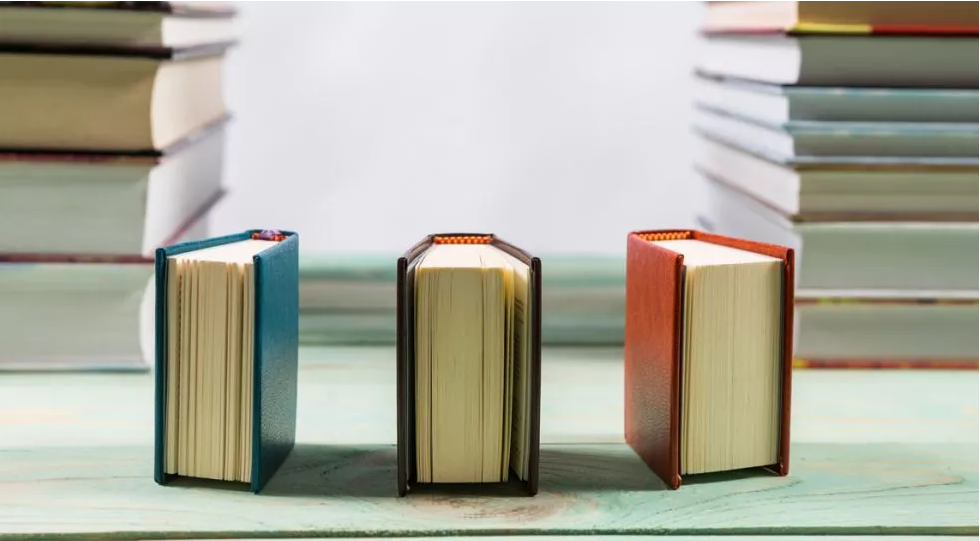
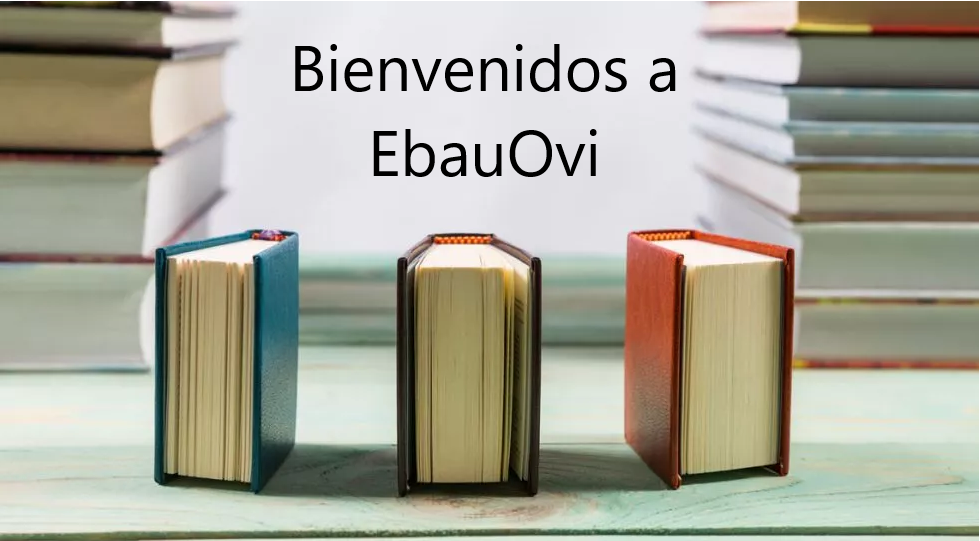
27 de Marzo

Changed region(s): [[0.2755, 0.0887, 0.7041, 0.1774], [0.3673, 0.2366, 0.6122, 0.3253]]

diff --git a/resources/views/welcome.blade.php b/resources/views/welcome.blade.php
@@ -18,23 +18,25 @@
             body {
                 font-family: 'Nunito', sans-serif;
             }
-
+            h1 {
+                text-align: center;
+            }
+            
         </style>
     </head>
-    <body class="imagen-fondo">
-   <center> <h1>Bienvenidos a EbauOvi</h1></center>
+    <body>
     <img src="../../../imagenes/1.png" alt="ebauovi" width="100%" >
         
-        <div class="relative flex items-top justify-center min-h-screen bg-gray-100 dark:bg-gray-900 sm:items-center py-4 sm:pt-0">
+        <div class="relative flex items-top justify-center min-h-screen bg-black-100 dark:bg-black-900 sm:items-center py-4 sm:pt-0">
             @if (Route::has('login'))
                 <div class="hidden fixed top-0 right-0 px-6 py-4 sm:block">
                     @auth
-                        <a href="{{ url('/dashboard') }}" class="text-sm text-gray-700 dark:text-gray-500 underline">Inicio</a>
+                        <a href="{{ url('/dashboard') }}" class="text-sm text-black-900 dark:text-black-900 underline">Inicio</a>
                     @else
-                        <a href="{{ route('login') }}" class="text-sm text-gray-700 dark:text-gray-500 underline">Log in</a>
+                        <a href="{{ route('login') }}" class="text-sm text-black-900 dark:text-gray-900 underline">Log in</a>
 
                         @if (Route::has('register'))
-                            <a href="{{ route('register') }}" class="ml-4 text-sm text-gray-700 dark:text-gray-500 underline">Register</a>
+                            <a href="{{ route('register') }}" class="ml-4 text-sm text-black-900 dark:text-gray-500 underline">Register</a>
                         @endif
                     @endauth
                 </div>
